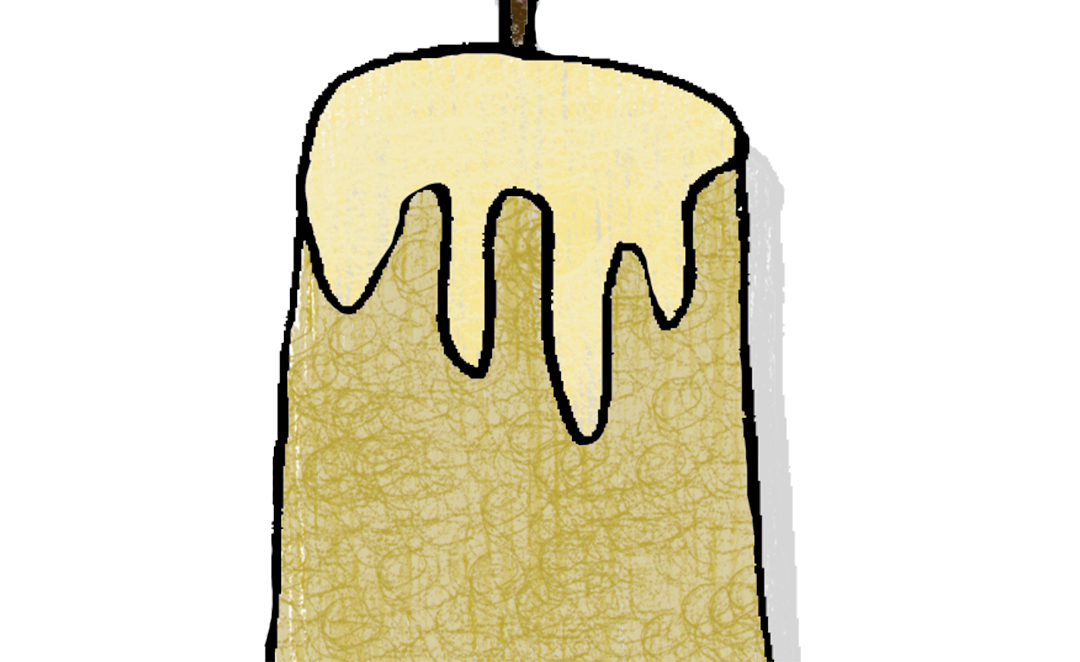
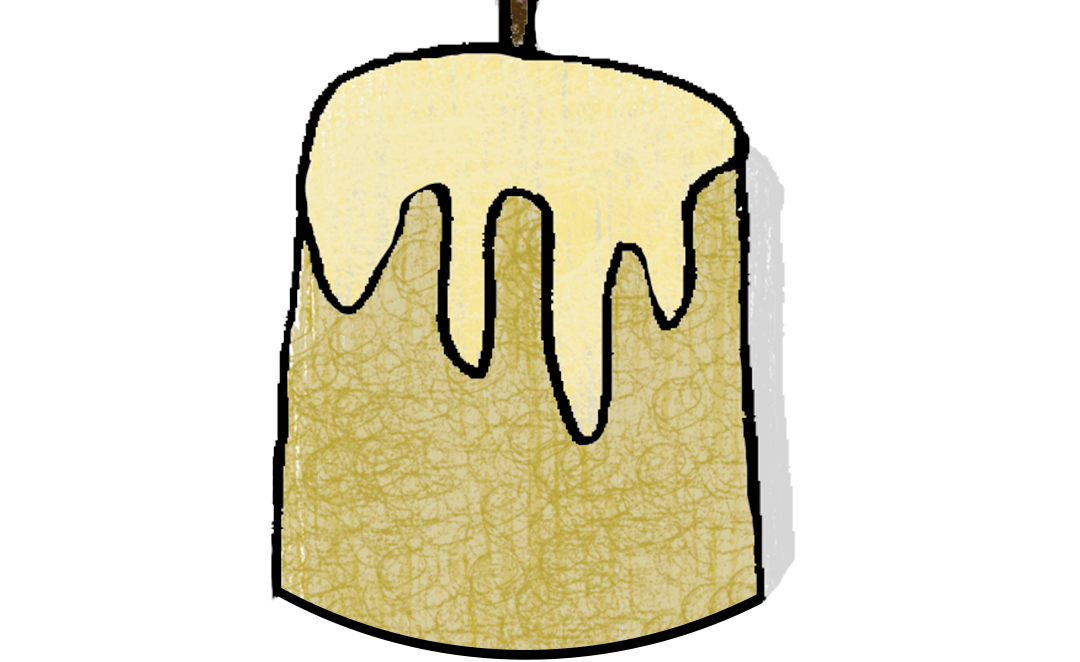
Add files via upload

Changed region(s): [[0.2444, 0.8459, 0.7639, 1.0]]

diff --git a/style.css b/style.css
@@ -16,8 +16,13 @@
 }
 
 body {
-  background-color: #577744;
-  color: #ffffff;
+  background-image: url('fondo.png');
+  background-size: cover;
+  background-position: center;
+  background-repeat: no-repeat;
+  background-attachment: fixed; /* Mantiene el fondo fijo al scrollear */
+
+  color: #f4ecf6;
   font-family: 'FuenteTitulo', sans-serif;
   min-height: 100vh;
   display: flex;
@@ -25,6 +30,7 @@ body {
   align-items: center;
   overflow-y: auto;
   padding: 20px 0;
+  font-weight: normal;
 }
 
 .screen {
@@ -59,18 +65,20 @@ body {
   line-height: 1.3;
   word-break: break-word;
   letter-spacing: 3px;
+  font-weight: normal;
+  text-shadow: 2px 3px 4px rgba(0, 0, 0, 0.3);
 }
 
 .instruction {
   font-family: 'FuenteBoton', sans-serif;
-  font-size: 1.5rem;
+  font-size: 1.8rem;
 }
 
 .btn {
   font-family: 'FuenteBoton', sans-serif;
   font-size: 2.5rem;
   padding: 16px 40px;
-  background-color: #98568d;
+  background-color: #b940a5;
   color: #ffffff;
   border: none;
   border-radius: 30px;

diff --git a/index.html b/index.html
@@ -27,7 +27,7 @@
 
   <!-- Pantalla Final -->
   <div id="screen-win" class="screen">
-    <h1 class="title">¡Gracias por salvar el fuego!</h1>
+    <h1 class="title">¡Gracias por cuidar el fuego!</h1>
     <button id="btn-restart" class="btn">Jugar de nuevo</button>
   </div>
 
